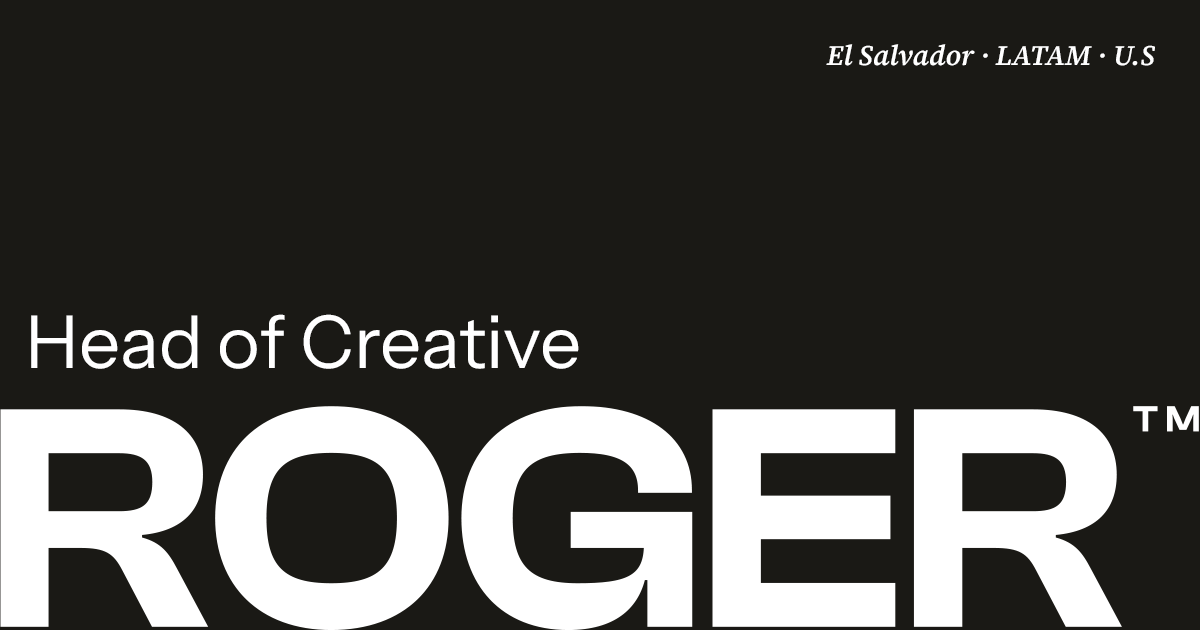
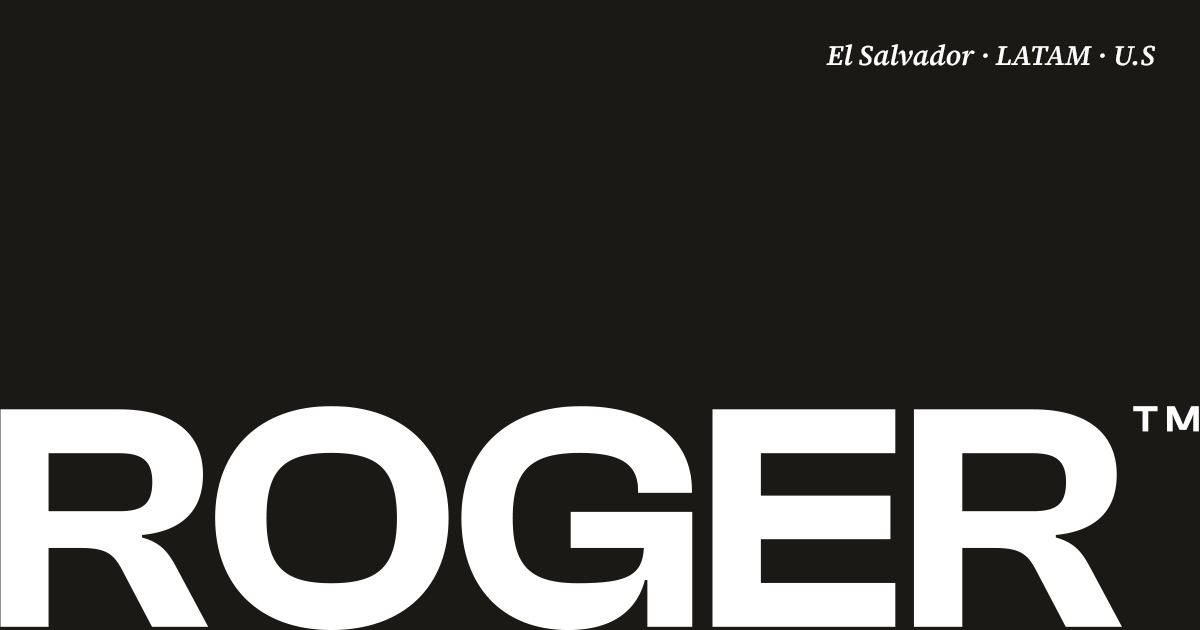
content: role change to Creative Strategy Lead — hero, meta, experience timeline, OG image

Changed region(s): [[0.0, 0.4825, 0.4933, 0.6032]]

diff --git a/app/page.tsx b/app/page.tsx
@@ -65,12 +65,22 @@ const journeyLogos = [
 
 const roles = [
   {
+    id: -1,
+    period: 'Sep 2026 – Present',
+    duration: 'Full-time',
+    role: 'Creative Strategy Lead',
+    company: 'Elaniin · El Salvador · Hybrid',
+    current: true,
+    desc: "The bridge between business strategy, the commercial team, and creative execution. I translate objectives into the design systems and AI criteria that let the team ship consistent, high-quality work at scale.",
+    skills: ['Creative Strategy', 'Design Systems', 'UX/UI', 'AI Direction', 'Brand Strategy', 'Team Leadership'],
+  },
+  {
     id: 0,
-    period: 'Apr 2022 – Present',
+    period: 'Apr 2022 – Sep 2026',
     duration: '4+ years · Full-time',
     role: 'Lead Graphic Designer',
     company: 'Elaniin · El Salvador · Hybrid',
-    current: true,
+    current: false,
     desc: "Leading creative direction for one of El Salvador's most dynamic tech brands. Managing creative teams, overseeing all visual communication, and building the systems that allow great work to scale without losing quality.",
     skills: ['Creative Direction', 'Brand Strategy', 'Team Leadership', 'Visual Systems', 'AI Image Direction', 'Photo Direction'],
   },
@@ -117,7 +127,7 @@ const roles = [
 ]
 
 export default function Home() {
-  const [activeRole, setActiveRole] = useState(0)
+  const [activeRole, setActiveRole] = useState(-1)
   const [statValues, setStatValues] = useState([0, 0, 0, 0])
   const [statsStarted, setStatsStarted] = useState(false)
   const statsRef = useRef<HTMLDivElement>(null)
@@ -168,7 +178,7 @@ export default function Home() {
     requestAnimationFrame(tick)
   }, [statsStarted])
 
-  const selected = roles[activeRole]
+  const selected = roles.find(r => r.id === activeRole) ?? roles[0]
 
   return (
     <>
@@ -183,14 +193,14 @@ export default function Home() {
             <img src="/roger-profile.jpg" alt="Roger Paniagua" className="profile-img" style={{ width: '44px', height: '44px' }} />
             <div className="hero-tag-info">
               <span className="hero-tag-name">Roger Paniagua</span>
-              <span className="hero-tag-role">Brand &amp; Creative Strategy Lead · AI</span>
+              <span className="hero-tag-role">Creative Strategy Lead</span>
             </div>
           </div>
           <h1 className="hero-h">
             Great brands don&apos;t happen.<br />
             <HeroTyping />
           </h1>
-          <p className="hero-sub">Brand strategy, creative systems, and AI-driven development. I take brands from the first brief to the deployed product, without dropping the thread.</p>
+          <p className="hero-sub">Brand strategy, design systems, and AI-driven development. I build the systems and set the criteria that let teams ship with consistency.</p>
           <a href="#work" className="hero-cta">Read case studies →</a>
           <div className="hero-logos">
             <div className="hero-logos-outer">

diff --git a/app/layout.tsx b/app/layout.tsx
@@ -3,15 +3,15 @@ import "./globals.css"
 import CustomCursor from "./CustomCursor"
 
 export const metadata: Metadata = {
-  title: "Roger Paniagua — Brand & Creative Strategy Lead",
-  description: "Strategy, creative systems, and AI-driven development. Working with brands across LATAM and the U.S. from El Salvador.",
+  title: "Roger Paniagua · Creative Strategy Lead",
+  description: "Design systems, brand strategy, and AI-driven development. Working with brands across LATAM and the U.S. from El Salvador.",
   icons: {
     icon: "/favicon.png",
     apple: "/favicon.png",
   },
   openGraph: {
-    title: "Roger Paniagua — Brand & Creative Strategy Lead",
-    description: "Strategy, creative systems, and AI-driven development. Working with brands across LATAM and the U.S. from El Salvador.",
+    title: "Roger Paniagua · Creative Strategy Lead",
+    description: "Design systems, brand strategy, and AI-driven development. Working with brands across LATAM and the U.S. from El Salvador.",
     url: "https://www.rogerpaniagua.com",
     siteName: "Roger Paniagua",
     images: [
@@ -19,7 +19,7 @@ export const metadata: Metadata = {
         url: "https://www.rogerpaniagua.com/roger-og.png",
         width: 1200,
         height: 630,
-        alt: "Roger Paniagua — Brand & Creative Strategy Lead",
+        alt: "Roger Paniagua — El Salvador · LATAM · U.S.",
       },
     ],
     locale: "en_US",
@@ -27,8 +27,8 @@ export const metadata: Metadata = {
   },
   twitter: {
     card: "summary_large_image",
-    title: "Roger Paniagua — Brand & Creative Strategy Lead",
-    description: "Strategy, creative systems, and AI-driven development. Working with brands across LATAM and the U.S. from El Salvador.",
+    title: "Roger Paniagua · Creative Strategy Lead",
+    description: "Design systems, brand strategy, and AI-driven development. Working with brands across LATAM and the U.S. from El Salvador.",
     images: ["https://www.rogerpaniagua.com/roger-og.png"],
   },
   alternates: {
@@ -41,7 +41,7 @@ const jsonLd = {
   "@type": "Person",
   name: "Roger Paniagua",
   url: "https://www.rogerpaniagua.com",
-  jobTitle: "Brand & Creative Strategy Lead",
+  jobTitle: "Creative Strategy Lead",
   worksFor: {
     "@type": "Organization",
     name: "Elaniin",
@@ -52,7 +52,7 @@ const jsonLd = {
     { "@type": "Country", "name": "United States" },
     { "@type": "Place", "name": "Latin America" },
   ],
-  description: "Strategy, creative systems, and AI-driven development. Working with brands across LATAM and the U.S. from El Salvador.",
+  description: "Design systems, brand strategy, and AI-driven development. Working with brands across LATAM and the U.S. from El Salvador.",
   sameAs: [
     "https://www.linkedin.com/in/roger-paniagua/",
     "https://www.instagram.com/rogerpaniagua_/",
